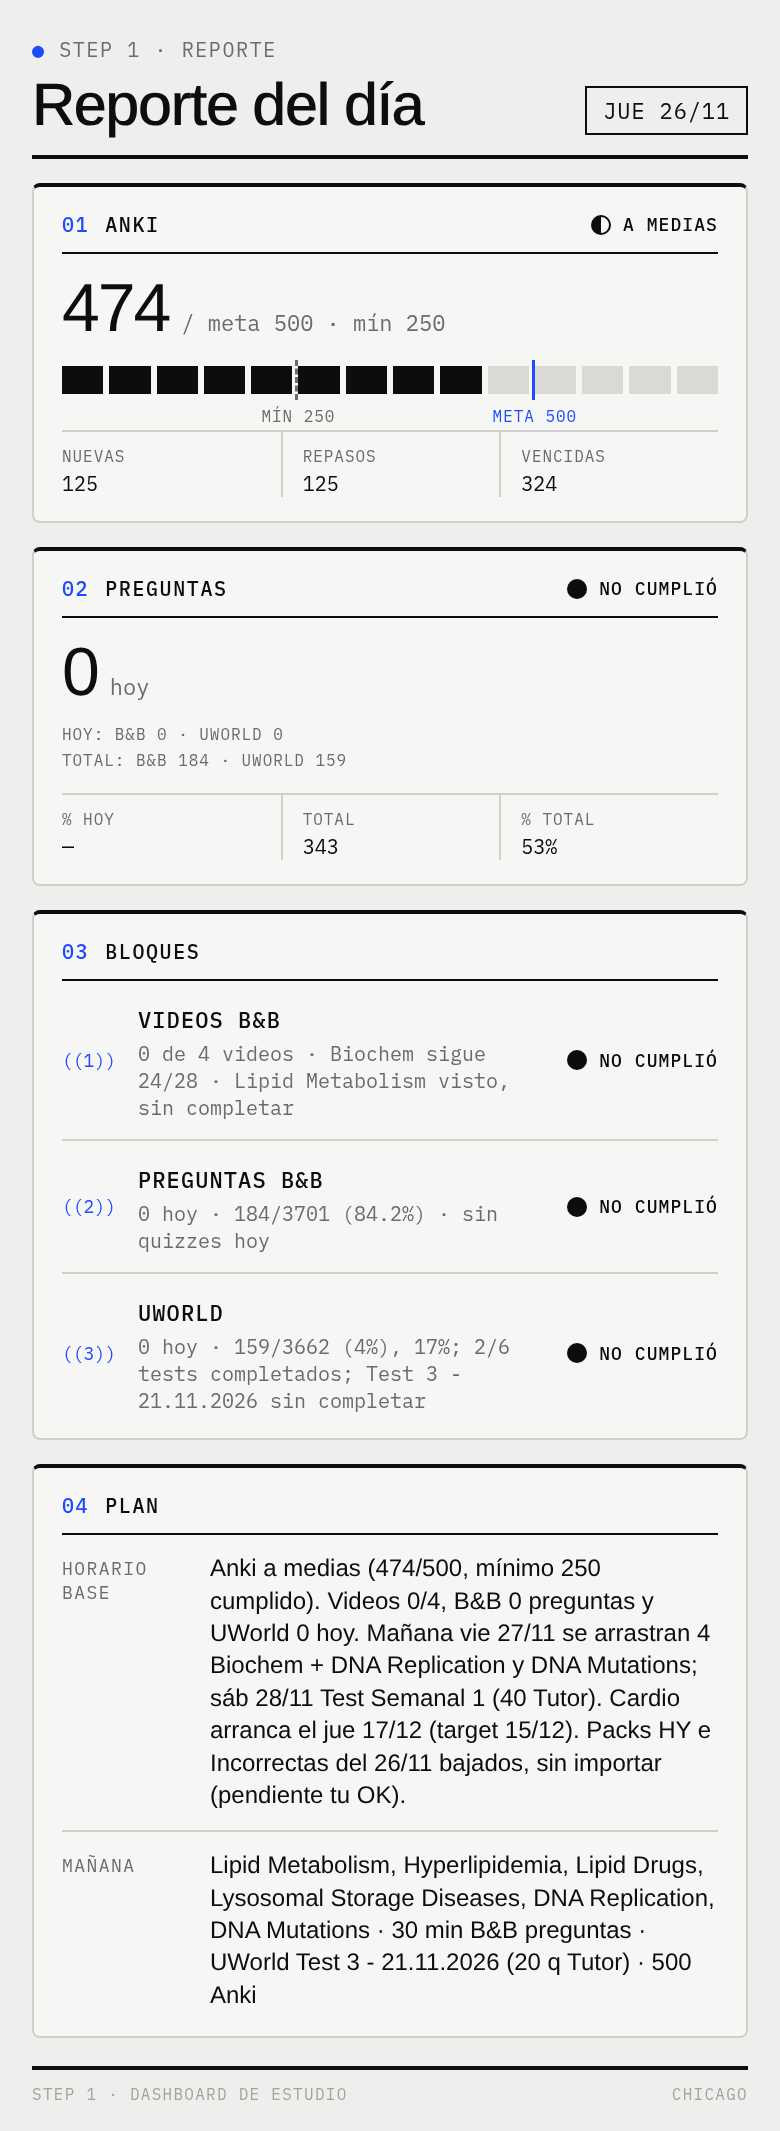
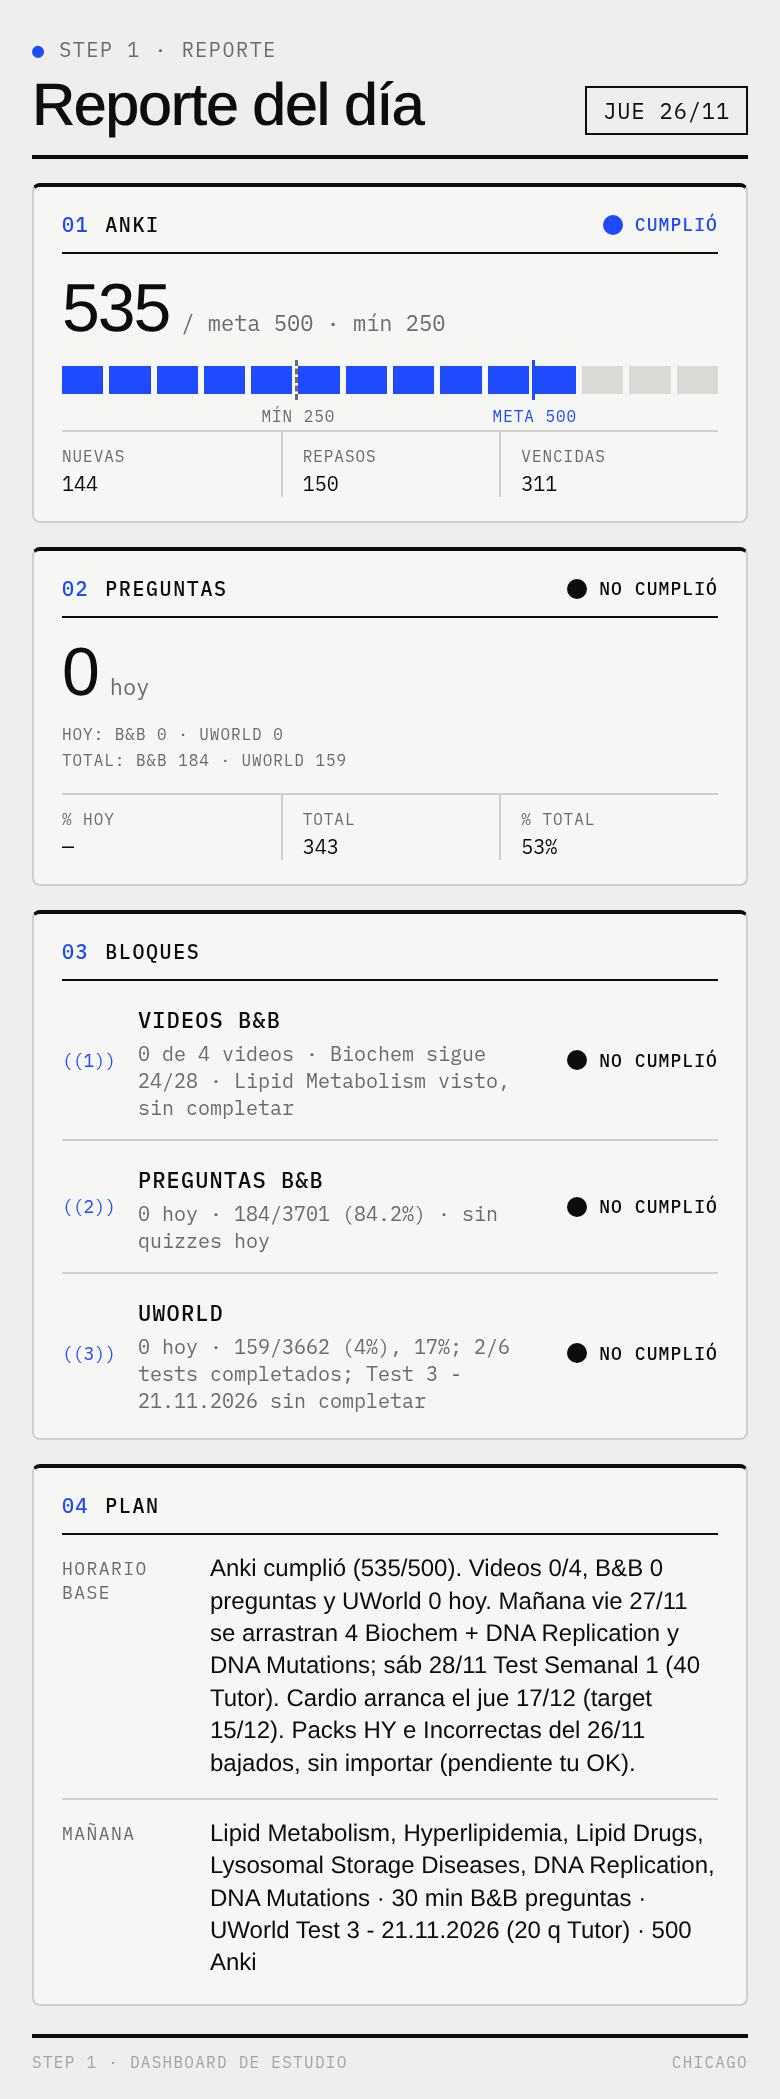
Reporte 2026-11-26: Anki actualizado a 535/500 (cumplió) tras sync 22:38

diff --git a/index.html b/index.html
@@ -5,7 +5,7 @@
   index_backup_pre_cards_2026-11-17.html (versión teenage engineering).
   Estilo: capa "teenage engineering" al final del <style> (paneles con borde, numeración 00–10, marcadores ((n))).
   Regla: en pantalla NO se muestran notas de fuente/procedencia; solo el timestamp de #upd.
-  Fuentes (solo para mantenimiento): Anki = Mac "Eduardos MacBook Air" encendida 26/11 22:30; AnkiConnect ok tras sync (solo lectura). reviews=474, unique=250, introduced=125, review_cards=250 (todas is:review tras graduarse; repasos = unique - introduced = 125, coincide con stats Review:125), again presses=53, again cards=42, again_pct=11, 127.73 min (16.17 s/card), stats Learn:321 Review:125 Relearn:28. is:due=324 (AnKing 275, Eduche 49). High Yield due 0 / new 140; Incorrectas due 0 / new 56. Submazos due: BB Biochemistry 34, BB Farmacología 1, BB Genetica 14. H["2026-11-24"]=758. H["2026-11-25"]=513 (AnkiConnect 25/11 22:28). H["2026-11-26"]=474 (AnkiConnect 26/11 22:30; a las 18:00 eran 4). Packs HY/Incorrectas del 26/11 descargados en /workspace/step1/imp_hy_2026-11-26 e imp_err_2026-11-26, NO importados (pendiente OK de Edu).
+  Fuentes (solo para mantenimiento): Anki = Mac "Eduardos MacBook Air" encendida 26/11 22:38; AnkiConnect ok tras sync (solo lectura). reviews=535, unique=294, introduced=144, review_cards=284 (repasos = unique - introduced = 150, coincide con stats Review:150), again presses=60, again cards=49, again_pct=11, 150.37 min (16.86 s/card), stats Learn:355 Review:150 Relearn:30. is:due=311 (AnKing 275, Eduche 36). High Yield due 0 / new 140; Incorrectas due 0 / new 56. Submazos due: BB Biochemistry 21, BB Farmacología 1, BB Genetica 14. H["2026-11-24"]=758. H["2026-11-25"]=513 (AnkiConnect 25/11 22:28). H["2026-11-26"]=535 (AnkiConnect 26/11 22:38; a las 18:00 eran 4, a las 22:30 eran 474). Packs HY/Incorrectas del 26/11 descargados en /workspace/step1/imp_hy_2026-11-26 e imp_err_2026-11-26, NO importados (pendiente OK de Edu).
   B&B = lectura en vivo 26/11 22:28 (reporte nocturno): 184/3701, quiz 84.2%, 63 quizzes, Step 1 8%. 0 quizzes hoy (último: 24/11 Other Vitamins 4/5). Quiz Other Amino Acids del 23/11 sin terminar (no se tocó). Biochem 24/28; pendientes en orden: Lipid Metabolism (visto, no completado), Hyperlipidemia, Lipid Drugs, Lysosomal Storage Diseases. Cell Bio 0/14 (Molecular Biology: DNA Replication, DNA Mutations, DNA Repair, Transcription, Translation, todo pendiente). Videos completados hoy: 0. TODAY_Q.bb.hechas = 0.
   UWorld = lectura en vivo 26/11 22:28 (reporte nocturno): QBank 159/3662, Question Score 17%, 2/6 tests completados; 0 preguntas nuevas hoy (159 igual desde el 25/11). Completados: test 1 (31/10, 40 q, no cuenta) y 19.11.2026 (20 q, 50%). NO completados: Test 3 - 21.11.2026 (20 q), Test 4 - 22.11.2026 (20 q), Test 5 - 23.11.2026 (19 q), Test Semanal 1 - 28.11.2026 (40 q, sábado). Siguiente del backlog: Test 3. UWSA 1–3 sin activar. TODAY_Q.uw.hechas = 0.
   Plan/horario: reprogramado 26/11 22:40 (Edu cocinó para Thanksgiving: nada se completó el 25/11 ni el 26/11). Vie 27/11 = 4 Biochem restantes + DNA Replication y DNA Mutations (6 videos, 116 min 1.0x); sáb 28/11 = Test Semanal 1 (40 Tutor) + Anki; dom 29/11 Anki + repaso ligero. Luego Cell Bio, Path General, Immuno, ID a 6 videos/día L–V; Infectious Disease termina el 16/12 y Cardiology empieza el jue 17/12 (target era 15/12). Fuente del horario para la rutina 6:40: /workspace/step1/horario_actual.json (copia /workspace/step1/horario_2026-11-27.json).
@@ -339,7 +339,7 @@ details summary .lbl{margin-left:auto}
   <div><div class="brand"><span><i>●</i> step&nbsp;1</span><span>usmle</span><span>rev. 2026</span></div><h1>Inicio</h1></div>
   <div class="top-meta">
     <button type="button" id="refresh" aria-label="Refresh">↻ REFRESH</button>
-    <span id="upd">Actualizado 26/11 22:40</span>
+    <span id="upd">Actualizado 26/11 22:39</span>
   </div>
 </header>
 
@@ -350,13 +350,13 @@ details summary .lbl{margin-left:auto}
 <!-- ANKI HOY: anillo (data-done / data-goal) -->
 <section class="card ringwrap" id="s-anki">
   <h2 style="align-self:stretch"><span><em class="no">00</em>Anki hoy</span> <i>●</i></h2>
-  <div id="ring" data-done="474" data-goal="500"></div>
+  <div id="ring" data-done="535" data-goal="500"></div>
   <span class="badge" id="ringbadge"></span>
   <div class="kvs">
-    <div class="kv"><span>Distintas</span><b>250</b></div>
-    <div class="kv"><span>Nuevas</span><b>125</b></div>
-    <div class="kv"><span>Repasos</span><b>125</b></div>
-    <div class="kv"><span>Vencidas</span><b>324</b></div>
+    <div class="kv"><span>Distintas</span><b>294</b></div>
+    <div class="kv"><span>Nuevas</span><b>144</b></div>
+    <div class="kv"><span>Repasos</span><b>150</b></div>
+    <div class="kv"><span>Vencidas</span><b>311</b></div>
     <div class="kv" id="anki-again"></div>
   </div>
 </section>
@@ -474,7 +474,7 @@ details summary .lbl{margin-left:auto}
 <!-- CONEXIONES: oculto en pantalla (hidden), se mantiene para los routines -->
 <section id="s-con" hidden>
 <table><tbody>
-<tr><td><b>Anki (MacBook Air)</b><br><small>AnkiConnect 26/11 22:30 (Mac encendida, tras sync, solo lectura): reviews=474, unique=250, introduced=125, again presses=53, again cards=42, 127.7 min. Vencidas 324 (AnKing 275, Eduche 49). High Yield 0 due / 140 new, Incorrectas 0 due / 56 new. Packs HY/Incorrectas 26/11 sin importar (pendiente OK de Edu).</small></td><td><span class="pill ok">Conectado</span></td></tr>
+<tr><td><b>Anki (MacBook Air)</b><br><small>AnkiConnect 26/11 22:38 (Mac encendida, tras sync, solo lectura): reviews=535, unique=294, introduced=144, again presses=60, again cards=49, 150.4 min. Vencidas 311 (AnKing 275, Eduche 36). High Yield 0 due / 140 new, Incorrectas 0 due / 56 new. Packs HY/Incorrectas 26/11 sin importar (pendiente OK de Edu).</small></td><td><span class="pill ok">Conectado</span></td></tr>
 <tr><td><b>UWorld</b><br><small>Lectura 26/11 22:28: QBank 159/3662 (4%), Question Score 17%, 2/6 tests completados; 0 preguntas nuevas hoy (159 igual desde el 25/11). El 50% es el test 19.11.2026 (#2, 10/20); Test 3 - 21.11.2026 no está completado (siguiente del backlog). Test 4, Test 5 (19 q) y Semanal 1 sin puntaje, pendientes. El test del 31/10 no cuenta. UWSA 1–3 sin activar.</small></td><td><span class="pill ok">Conectado</span></td></tr>
 <tr><td><b>Boards &amp; Beyond</b><br><small>Lectura 26/11 22:28: 184/3701 a 84.2%, 63 quizzes, Step 1 8%. 0 quizzes hoy (último 24/11 Other Vitamins 4/5). Biochem 24/28, 151/140 a 87%. Lipid Metabolism visto, no completado. Pendientes: Lipid Metabolism, Hyperlipidemia, Lipid Drugs, Lysosomal Storage Diseases.</small></td><td><span class="pill ok">Conectado</span></td></tr>
 <tr><td><b>Google Sheets (tracker)</b><br><small>Aún no conectado.</small></td><td><span class="pill wa">Sin conexión</span></td></tr>
@@ -586,7 +586,7 @@ function draw(){document.getElementById("seg").innerHTML=F.map(x=>`<button class
 /* fechas límite (cuenta regresiva en días, calculada) */
 const D={examen:"2027-04-30",uworld:"2027-04-29"};
 
-const H={"2026-10-31":44,"2026-11-02":73,"2026-11-03":87,"2026-11-04":4,"2026-11-05":229,"2026-11-07":226,"2026-11-10":205,"2026-11-11":310,"2026-11-12":346,"2026-11-13":303,"2026-11-14":552,"2026-11-15":239,"2026-11-16":430,"2026-11-17":635,"2026-11-18":624,"2026-11-19":172,"2026-11-20":0,"2026-11-21":837,"2026-11-22":274,"2026-11-23":196,"2026-11-24":758,"2026-11-25":513,"2026-11-26":474}; /* 24/11 23:28, 25/11 22:28 y 26/11 18:00 AnkiConnect */
+const H={"2026-10-31":44,"2026-11-02":73,"2026-11-03":87,"2026-11-04":4,"2026-11-05":229,"2026-11-07":226,"2026-11-10":205,"2026-11-11":310,"2026-11-12":346,"2026-11-13":303,"2026-11-14":552,"2026-11-15":239,"2026-11-16":430,"2026-11-17":635,"2026-11-18":624,"2026-11-19":172,"2026-11-20":0,"2026-11-21":837,"2026-11-22":274,"2026-11-23":196,"2026-11-24":758,"2026-11-25":513,"2026-11-26":535}; /* 24/11 23:28, 25/11 22:28 y 26/11 18:00 AnkiConnect */
 const key=d=>d.getFullYear()+"-"+String(d.getMonth()+1).padStart(2,"0")+"-"+String(d.getDate()).padStart(2,"0");
 
 /* histograma de cuadritos: 1 cuadrito = 50 respuestas; líneas META 500 y MÍNIMO 250 */
@@ -624,7 +624,7 @@ document.getElementById("cd-ex").textContent=D.examen?dd(D.examen):"—";documen
 document.getElementById("hitos").innerHTML=plan.filter(r=>r[2]!==1).slice(0,4).map(r=>`<div class="hito"><span class="f">${r[0]}</span><span>${r[1]}</span></div>`).join("")||"—";
 
 /* 00 Anki hoy · Again (solo valores ya observados; null = "—") */
-const ANKI_HOY={reviews:474, again:53, again_cards:42, again_pct:11};
+const ANKI_HOY={reviews:535, again:60, again_cards:49, again_pct:11};
 (function(){
   const el=document.getElementById("anki-again"); if(!el) return;
   const a=ANKI_HOY, V=x=>(x===null||x===undefined||x==="")?"—":x;
@@ -691,7 +691,7 @@ ${b.nota?`<p class="note">${b.nota}</p>`:""}`})();
 const REPORTS={
   "2026-11-26":{
   fecha:"jue 26/11",
-  anki:{hechas:474, meta:500, min:250, nuevas:125, repasos:125, vencidas:324, estado:"medio", nota:"AnkiConnect 26/11 22:30: reviews=474, unique=250, introduced=125, again presses=53, again cards=42, 127.7 min. A las 18:00 eran 4."},
+  anki:{hechas:535, meta:500, min:250, nuevas:144, repasos:150, vencidas:311, estado:"ok", nota:"AnkiConnect 26/11 22:38: reviews=535, unique=294, introduced=144, again presses=60, again cards=49, 150.4 min. A las 18:00 eran 4; a las 22:30 eran 474."},
   preg:{hoy:null, pct_hoy:null, total:null, pct_total:null,
         bb:{hoy:0, pct_hoy:null, total:184, pct_total:84.2},
         uw:{hoy:0, pct_hoy:null, total:159, pct_total:17},
@@ -701,7 +701,7 @@ const REPORTS={
     {n:"Preguntas B&B", valor:"0 hoy", detalle:"184/3701 (84.2%) · sin quizzes hoy", estado:"no"},
     {n:"UWorld", valor:"0 hoy", detalle:"159/3662 (4%), 17%; 2/6 tests completados; Test 3 - 21.11.2026 sin completar", estado:"no"}
   ],
-  base:"Anki a medias (474/500, mínimo 250 cumplido). Videos 0/4, B&B 0 preguntas y UWorld 0 hoy. Mañana vie 27/11 se arrastran 4 Biochem + DNA Replication y DNA Mutations; sáb 28/11 Test Semanal 1 (40 Tutor). Cardio arranca el jue 17/12 (target 15/12). Packs HY e Incorrectas del 26/11 bajados, sin importar (pendiente tu OK).",
+  base:"Anki cumplió (535/500). Videos 0/4, B&B 0 preguntas y UWorld 0 hoy. Mañana vie 27/11 se arrastran 4 Biochem + DNA Replication y DNA Mutations; sáb 28/11 Test Semanal 1 (40 Tutor). Cardio arranca el jue 17/12 (target 15/12). Packs HY e Incorrectas del 26/11 bajados, sin importar (pendiente tu OK).",
   manana:"Lipid Metabolism, Hyperlipidemia, Lipid Drugs, Lysosomal Storage Diseases, DNA Replication, DNA Mutations · 30 min B&B preguntas · UWorld Test 3 - 21.11.2026 (20 q Tutor) · 500 Anki"
 },
   "2026-11-25":{
